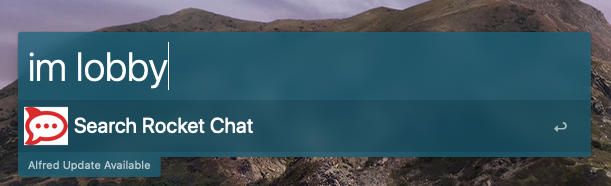
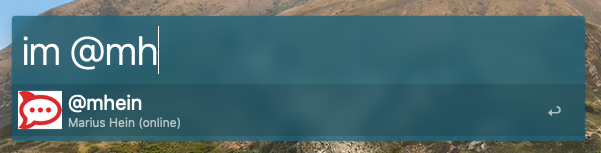
Docs and error handling

diff --git a/query.py b/query.py
@@ -7,24 +7,22 @@ import urllib2
 import urllib
 import json
 
-from pprint import pprint as pp
-
 ALFRED_CONFIG_SECTION = 'Rocket.Chat'
 ALFRED_CONFIG_COUNT = 20
-ALFRED_RC_PATH = os.environ.get('ALFRED_RC_PATH', '~/.search_rocket_chat.alfred')
+ALFRED_RC_FILE = '.search_rocket_chat.alfred'
+ALFRED_RC_PATH = os.environ.get('ALFRED_RC_PATH', '~/' + ALFRED_RC_FILE)
 
-config_file = os.path.expanduser(ALFRED_RC_PATH)
-config = ConfigParser.ConfigParser()
-config.read(config_file)
+def throw_error(message):
+    print(json.dumps({
+        "items": [{
+            "title": message,
+            "icon": {
+                "path": "./error.png"
+            }
+        }]
+    }))
 
-rc_url = config.get(ALFRED_CONFIG_SECTION, 'url')
-rc_user = config.get(ALFRED_CONFIG_SECTION, 'user')
-rc_auth = config.get(ALFRED_CONFIG_SECTION, 'auth')
-
-if len(sys.argv) > 1:
-    query = ' '.join(sys.argv[-1:]).lower()
-else:
-    query = ''
+    sys.exit(1)
 
 def do_request(path, data = None):
     url = rc_url.strip('/') + path
@@ -36,9 +34,27 @@ def do_request(path, data = None):
         'X-User-Id': rc_user,
         'X-Auth-Token': rc_auth
     })
+    try:
+        response = urllib2.urlopen(request)
+        return json.load(response)
+    except urllib2.URLError:
+        throw_error('URL Error (URL, Auth, ...): ' + rc_url)
 
-    response = urllib2.urlopen(request)
-    return json.load(response)
+try:
+    config_file = os.path.expanduser(ALFRED_RC_PATH)
+    config = ConfigParser.ConfigParser()
+    config.read(config_file)
+
+    rc_url = config.get(ALFRED_CONFIG_SECTION, 'url')
+    rc_user = config.get(ALFRED_CONFIG_SECTION, 'user')
+    rc_auth = config.get(ALFRED_CONFIG_SECTION, 'auth')
+except ConfigParser.NoSectionError:
+    throw_error('Config file not found: ~/' + ALFRED_RC_FILE)
+
+if len(sys.argv) > 1:
+    query = ' '.join(sys.argv[-1:]).lower()
+else:
+    query = ''
 
 channel_query = True
 user_query = True
@@ -73,11 +89,12 @@ if user_query is True:
         })
 
     users = do_request('/api/v1/users.list', data)
+
     for user in users['users']:
         items.append({
             'title': '@' + user['username'],
             'arg': '@' + user['username'],
-            'subtitle': user['name'],
+            'subtitle': user['name'] + ' (' + user['status'] + ')',
             'type': 'user'
         })
 

diff --git a/README.md b/README.md
@@ -4,11 +4,32 @@ A simple approach to search Rocket.Chat contacts and channels.
 
 ## Alfred Search Keyword
 
-![alfred search keyword][screenshot1]
+![alfred search keyword][screenshot3]
 
-## Result
+![alfred search user][screenshot1]
 
-![Rocket.Chat result][screenshot2]
+![alfred search channel][screenshot2]
+
+### Modifier
+
+You can use prefixes like **@** or **#** for browsing users or chanels. Also
+simple regular expressions are allowed.
+
+## Configuration
+
+Create a file named ***.search_rocket_chat.alfred*** in your home directory:
+
+```bash
+cat ~/.search_rocket_chat.alfred
+[Rocket.Chat]
+url=https://url.to.rocket.chat
+user=<token_user_id>
+auth=<token>
+```
+
+Add a personal access token to it:
+
+![personal access token][token]
 
 ## License
 
@@ -38,3 +59,5 @@ SOFTWARE.
 
 [screenshot1]: screenshot1.png
 [screenshot2]: screenshot2.png
+[screenshot3]: screenshot3.png
+[token]: token.png
